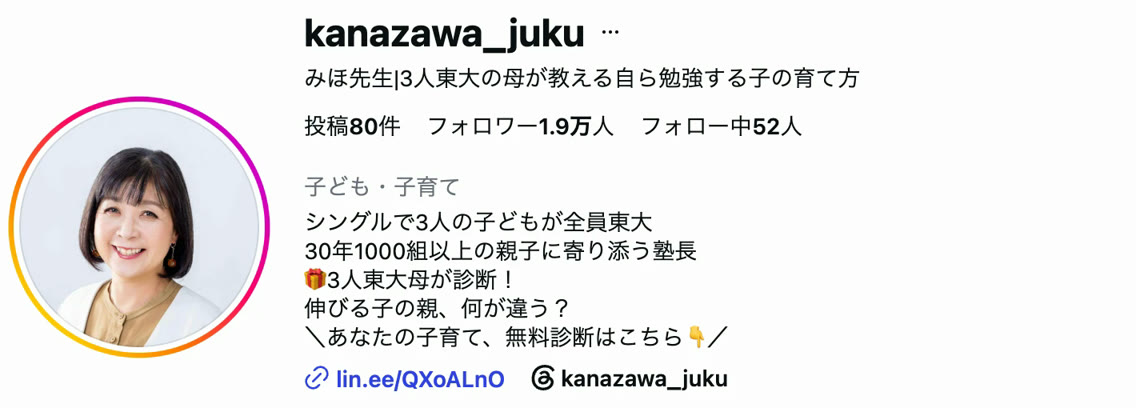
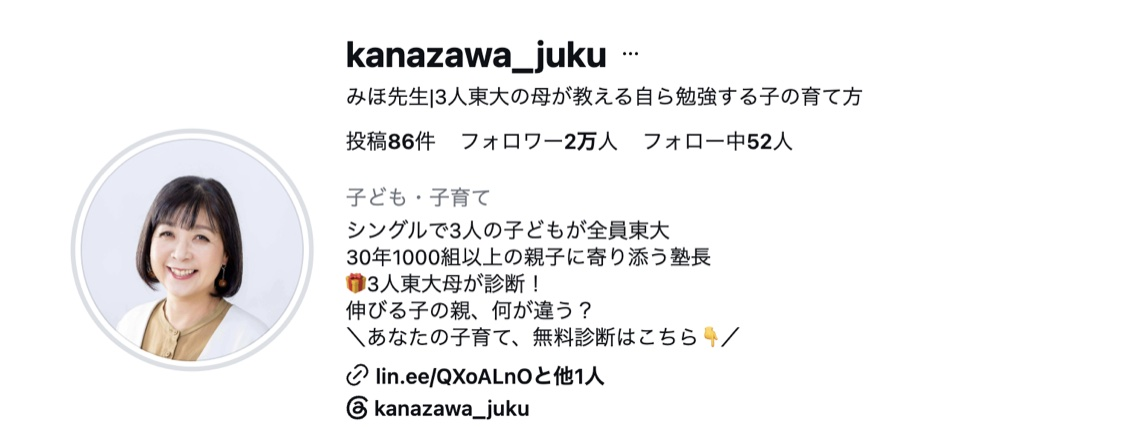
HP: new Instagram profile screenshot (2万人)

Changed region(s): [[0.0, 0.2353, 0.647, 1.0], [0.2465, 0.0294, 0.7702, 0.3529]]

diff --git a/index.html b/index.html
@@ -165,7 +165,7 @@ if (/(^|\.)school-oak-m\.jp$/.test(location.hostname)) {
       <p class="lead">Instagram「kanazawa_juku」で、毎日の声かけや関わり方のヒントを発信しています。毎週日曜の夜9時からは、みほ先生のインスタライブ。途中からでも、聞くだけでも大丈夫です。</p>
       <div class="cta-row" style="margin-top:18px"><a class="btn btn-ig" href="https://www.instagram.com/kanazawa_juku/?openExternalBrowser=1" target="_blank" rel="noopener">Instagramを見る</a></div>
     </div>
-    <a class="ig-shot" href="https://www.instagram.com/kanazawa_juku/?openExternalBrowser=1" target="_blank" rel="noopener"><img src="./images/site/instagram-profile.jpg" alt="みほ先生のInstagram（kanazawa_juku）フォロワー2万人" width="1136" height="408" loading="lazy"></a>
+    <a class="ig-shot" href="https://www.instagram.com/kanazawa_juku/?openExternalBrowser=1" target="_blank" rel="noopener"><img src="./images/site/instagram-profile.jpg" alt="みほ先生のInstagram（kanazawa_juku）フォロワー2万人" width="1136" height="427" loading="lazy"></a>
   </div>
 </section>
 

diff --git a/site-src/pages/index.html b/site-src/pages/index.html
@@ -130,7 +130,7 @@
       <p class="lead">Instagram「kanazawa_juku」で、毎日の声かけや関わり方のヒントを発信しています。毎週日曜の夜9時からは、みほ先生のインスタライブ。途中からでも、聞くだけでも大丈夫です。</p>
       <div class="cta-row" style="margin-top:18px"><a class="btn btn-ig" href="https://www.instagram.com/kanazawa_juku/?openExternalBrowser=1" target="_blank" rel="noopener">Instagramを見る</a></div>
     </div>
-    <a class="ig-shot" href="https://www.instagram.com/kanazawa_juku/?openExternalBrowser=1" target="_blank" rel="noopener"><img src="{{root}}images/site/instagram-profile.jpg" alt="みほ先生のInstagram（kanazawa_juku）フォロワー2万人" width="1136" height="408" loading="lazy"></a>
+    <a class="ig-shot" href="https://www.instagram.com/kanazawa_juku/?openExternalBrowser=1" target="_blank" rel="noopener"><img src="{{root}}images/site/instagram-profile.jpg" alt="みほ先生のInstagram（kanazawa_juku）フォロワー2万人" width="1136" height="427" loading="lazy"></a>
   </div>
 </section>
 
